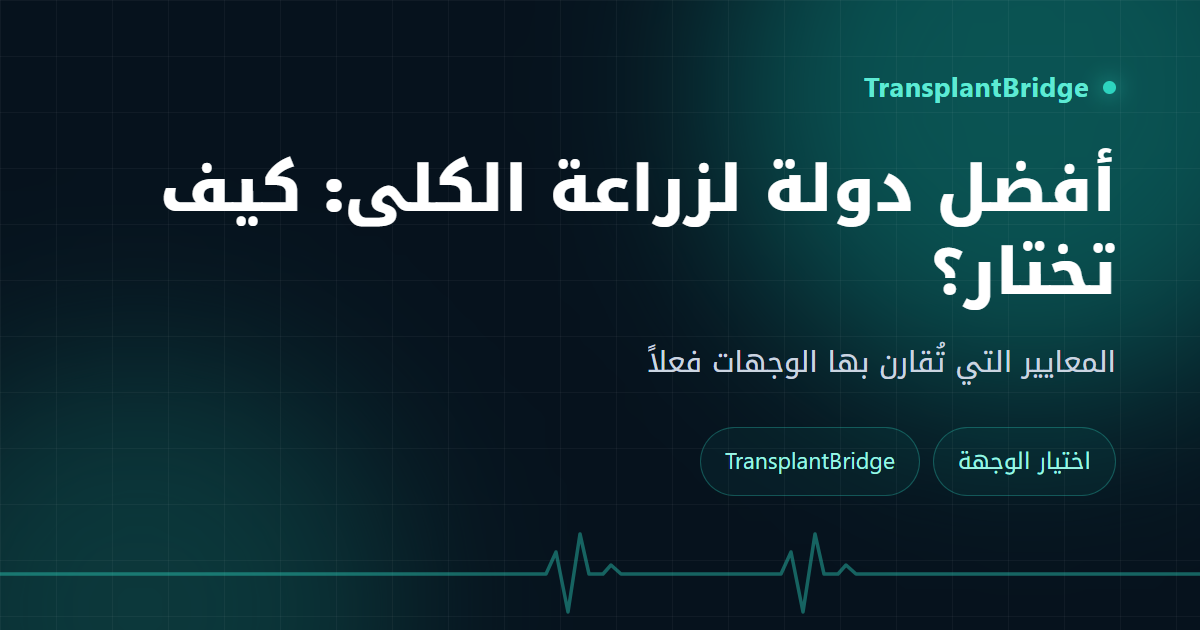
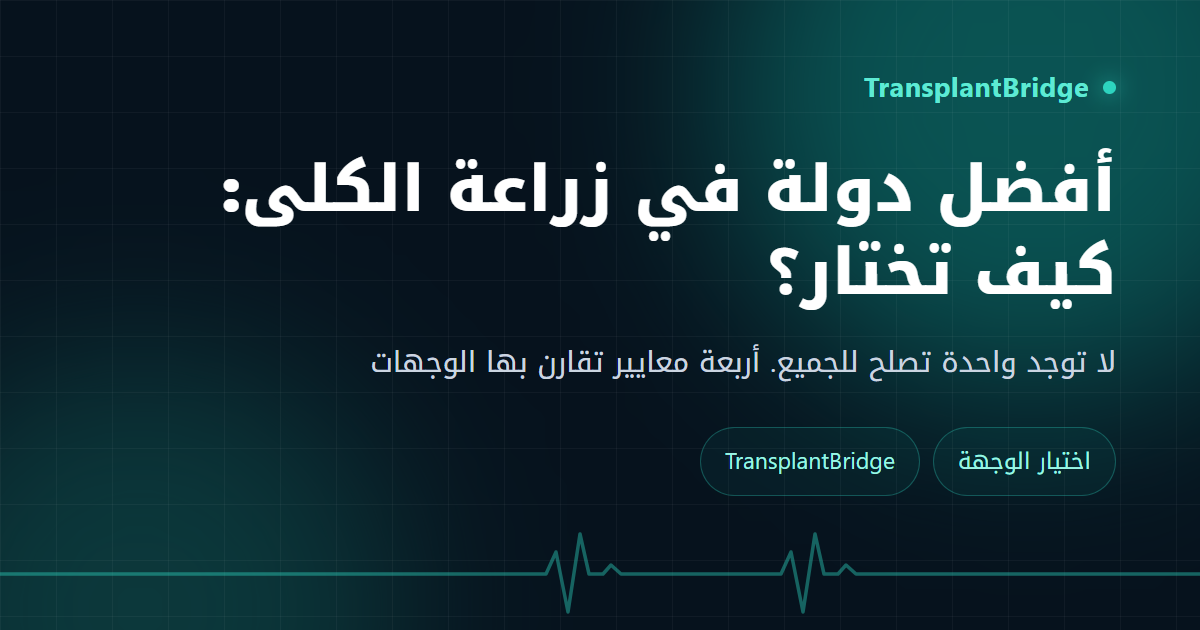
تقوية الصفحات الاربع الواقفة عند 8-9 — بلا اطالة محتوى
الاختيار مبني على قياس: وسيط كلمات صفحاتنا في المراكز 1-10 هو 1001،
وفي المراكز 20+ هو 718 — لكن اطول صفحة (2744 كلمة) في الموضع 21 واقصرها
(685) في الموضع 8.8. فالطول ليس الرافعة هنا، بل التطابق وCTR والربط.

١) عدم تطابق حقيقي بين العنوان وH1 — وهو ما يدفع Google لاعادة كتابة العنوان:
   - best-country: العنوان «أفضل دولة في زراعة الكلى» (الاستعلام الفائز،
     25 ظهورا بموضع 8.84) بينما H1 كان «لـزراعة». صار متطابقا.
   - transplant-cost: H1 كان «تكلفة الزراعة: كيف تقرأ عرض السعر؟» بلا
     الكلمة المستهدفة اصلا. صار يحملها كاملة.

٢) اربعة اوصاف اعيدت كتابتها لتقود بالتمييز لا بقائمة مواضيع — عند
   الموضع 8-9 تتحرك الصفحة بـCTR لا بالمحتوى.

٣) سبعة روابط متن بمراسٍ وصفية متنوعة (لا «التكلفة» المتكررة في القوائم):
   transplant-elderly من 3 الى 5 روابط متن، و best-country الى 6،
   و transplant-cost الى 7، و kidney-donor-requirements الى 8.

٤) اعيد توليد 33 بطاقة مشاركة لتواكب العناوين الجديدة.

خطأ وقع واُصلح: مُدرِج الروابط افترض ان «],» في سطر مستقل، فاسقط فاصلة
في مصفوفة من سطر واحد وكسر البناء. اُصلح وتحقق.

Changed region(s): [[0.1233, 0.2413, 0.6167, 0.3921], [0.3083, 0.5429, 0.925, 0.6032], [0.6167, 0.3619, 0.925, 0.5127]]

diff --git a/src/content/kidney.ts b/src/content/kidney.ts
@@ -43,6 +43,7 @@ export const KIDNEY: ContentPage[] = [
         body: [
           "المعيار ليس الكلى وحدها، بل قدرة الجسم على احتمال جراحة وعلاج مناعي طويل. ويشمل التقييم:",
                   "<strong>والعمر وحده نادراً ما يكون مانعاً مطلقاً</strong> في المراكز الحديثة؛ ما يُقيَّم هو حالة القلب والرئة والأوعية — التفصيل في <a href=\"/transplant-elderly\">الزراعة لكبار السن</a>.",
+                  "ومن تجاوز الستين يسأل دائماً: هل العمر يمنع؟ الجواب في <a href=\"/transplant-elderly\">زراعة الكبد والكلى لكبار السن</a> — والمعوَّل عليه العمر البيولوجي لا رقم الميلاد.",
         ],
         list: [
           "تقييم القلب والأوعية — أكثر ما يُدقَّق فيه عند مرضى الفشل الكلوي.",
@@ -135,7 +136,9 @@ export const KIDNEY: ContentPage[] = [
       },
       {
         h2: "التحضير للعملية",
-        body: ["بعد اكتمال التقييم والموافقة تبدأ مرحلة التحضير، وهي أوسع مما يتوقع المرضى:"],
+        body: ["بعد اكتمال التقييم والموافقة تبدأ مرحلة التحضير، وهي أوسع مما يتوقع المرضى:",
+          "ولا تقارن عرضين بالسعر الإجمالي وحده — اقرأ <a href=\"/transplant-cost\">تكلفة زراعة الكلى والكبد في تركيا</a> لتعرف ما يجب أن يوضحه كل عرض قبل أن تقارن.",
+        ],
         list: [
           "<strong>ضبط ضغط الدم والسكر</strong> قبل الجراحة — عاملان حاسمان في نتائج زراعة الكلى.",
           "<strong>تقييم قلبي نهائي</strong> وموافقة طبيب القلب والتخدير.",
@@ -183,6 +186,7 @@ export const KIDNEY: ContentPage[] = [
         h2: "الزراعة أم الغسيل؟",
         body: [
           "لكل منهما موضعه، والمفاضلة ليست مطلقة بل بحسب حالة كل مريض. لكن من المهم أن تعرف أن الزراعة ليست «الحل الأسهل» بل علاج له التزاماته الدائمة.",
+                  "وإن كان المريض كبير السن فالموازنة تختلف قليلاً — انظر <a href=\"/transplant-elderly\">زراعة الكبد والكلى لكبار السن</a>.",
         ],
         table: {
           head: ["", "الغسيل الكلوي", "زراعة الكلى"],
@@ -326,7 +330,7 @@ export const KIDNEY: ContentPage[] = [
     volume: "100 – 1,000",
     title: "شروط التبرع بالكلى 2026: القرابة والتوافق",
     description:
-      "شروط التبرع بالكلى: درجات القرابة المطلوبة قانوناً، وفصيلة الدم والتوافق النسيجي، وشروط الصحة والعمر، والموانع التي تستبعد المتبرع.",
+      "شروط التبرع بالكلى: درجة القرابة بنصّ اللائحة التركية، وفصيلة الدم والتوافق النسيجي، والموانع التي تستبعد متبرعاً سليماً تماماً.",
     h1: "شروط التبرع بالكلى",
     lead:
       "شروط التبرع بالكلى ثلاثة معاً: شرط قانوني يخص صلة القرابة، وشرط طبي يخص التوافق وصحة المتبرع، وشرط يخص حرية القرار. واجتياز واحد لا يكفي — يجب اجتيازها كلها.",
@@ -348,6 +352,7 @@ export const KIDNEY: ContentPage[] = [
         body: [
           "أول سؤال يُطرح، وهو الذي يحدد إن كان المسار ممكناً أصلاً. القوانين عادةً تحصر التبرع من الأحياء في دائرة قرابة محددة، وما خرج عنها يُحال إلى لجنة أخلاقيات مختصة تنظر في الملف وتقرر.",
           "وينضاف إلى ذلك أن <strong>المريض القادم من خارج البلد لا يُدرج عادةً على قائمة المتبرعين المتوفين</strong> هناك، لأنها مخصصة لمواطني الدولة — فيبقى المتبرع الحي القريب هو الطريق العملي.",
+                  "ومن يوازن بين أكثر من وجهة قبل أن يقرر، فمعايير المقارنة في <a href=\"/best-country-kidney-transplant\">أفضل دولة في زراعة الكلى</a> — وأولها القانون لا السعر.",
         ],
         note:
           "أما <strong>تركيا تحديداً فرجعنا فيها إلى النص الرسمي</strong>، ودرجات القرابة وما يتعلق بالمريض الأجنبي مذكورة بموادها في القسم التالي. وما عدا تركيا تختلف المتطلبات بين الدول وتتغيّر، فالمرجع هو المستشفى والجهة القانونية المختصة في بلد العملية.",

diff --git a/src/content/decision.ts b/src/content/decision.ts
@@ -12,8 +12,8 @@ export const DECISION: ContentPage[] = [
     volume: "100 – 1,000",
     title: "أفضل دولة في زراعة الكلى: معايير الاختيار 2026",
     description:
-      "أفضل دولة في زراعة الكلى: المعايير التي تُقارن بها الوجهات فعلاً — القانون وتوفر المتبرع وخبرة المراكز والمتابعة — بدل الاعتماد على الترتيب.",
-    h1: "أفضل دولة لزراعة الكلى: كيف تختار؟",
+      "أفضل دولة في زراعة الكلى: لا توجد واحدة تصلح للجميع. أربعة معايير تقارن بها الوجهات — القانون والمتبرع وخبرة المركز والمتابعة.",
+    h1: "أفضل دولة في زراعة الكلى: كيف تختار؟",
     lead:
       "لا توجد «أفضل دولة» واحدة تصلح لكل مريض — توجد دولة أنسب لحالتك أنت. والعامل الحاسم في الغالب ليس السعر ولا السمعة، بل <strong>هل يسمح قانون تلك الدولة بأن يتبرع لك قريبك، وهل تستطيع إدخال متبرعك معك؟</strong>",
     cluster: "decision",
@@ -325,6 +325,7 @@ export const DECISION: ContentPage[] = [
           "لأن أسباباً عملية تجتمع هناك: قرب جغرافي يجعل السفر ممكناً في ساعات لا أياماً، وعدد كبير من المراكز التي تستقبل مرضى من الخارج بإجراءات معتادة لا استثنائية، وتوفّر منسّقين يتحدثون العربية في كثير من المستشفيات، وبنية طبية تسمح بزراعة من متبرع حي بوصفها مساراً روتينياً.",
           "لكن <strong>هذه الأسباب لا تعني أن تركيا هي الأفضل لحالتك</strong>، ولا أن كل مركز فيها مناسب. فالقرب وسهولة الإجراءات مزيّتان لوجستيتان لا طبيّتان، ومستوى المراكز هناك متفاوت كتفاوته في أي بلد آخر.",
           "والطريقة الصحيحة في التفكير: ابدأ من <strong>شرط المتبرع القريب</strong> لأنه يحسم جدوى المسار كله، ثم من خبرة المركز في عضوك تحديداً، ثم من وضوح العرض المالي، ثم من اللغة والتنسيق. ومعايير الاختيار كاملةً في صفحة <a href=\"/best-country-kidney-transplant\">أفضل دولة للزراعة</a>.",
+                  "ولمن يقارن تركيا بغيرها قبل أن يحسم: معايير المفاضلة كاملةً في <a href=\"/best-country-kidney-transplant\">أفضل دولة في زراعة الكلى</a>.",
         ],
         list: [
           "قرب يقلّل عبء السفر على مريض كبدي ضعيف — وهذا اعتبار طبي حقيقي لا رفاهية.",
@@ -625,8 +626,8 @@ export const DECISION: ContentPage[] = [
     volume: "10 – 100",
     title: "تكلفة زراعة الكلى والكبد في تركيا 2026",
     description:
-      "تكلفة زراعة الكلى والكبد: لماذا تتناقض الأرقام المنشورة، وما البنود التي يجب أن يشملها أي عرض، وما الذي يُستثنى عادةً فيفاجئك لاحقاً.",
-    h1: "تكلفة الزراعة: كيف تقرأ عرض السعر؟",
+      "تكلفة زراعة الكلى والكبد في تركيا: لماذا تتناقض الأرقام، والنطاقات المنقولة بمصادرها، والبنود التي يُفاجئك استثناؤها من العرض.",
+    h1: "تكلفة زراعة الكلى والكبد في تركيا: كيف تقرأ العرض؟",
     lead:
       "لن تجد في هذه الصفحة رقماً — وهذا قرار مقصود. الأرقام المنشورة عن تكلفة الزراعة متناقضة بشدة، وكل رقم يقيس شيئاً مختلفاً. ما نعطيك إياه هو أداة تحوّل أي عرض يصلك إلى رقم تفهمه وتستطيع مقارنته.",
     cluster: "decision",

diff --git a/src/content/extra.ts b/src/content/extra.ts
@@ -489,7 +489,7 @@ export const EXTRA: ContentPage[] = [
     volume: "100 – 1,000",
     title: "زراعة الكبد والكلى لكبار السن: هل العمر مانع؟",
     description:
-      "زراعة الكبد والكلى لكبار السن: هل العمر وحده يمنع الزراعة، وما الذي يقيّمه الفريق الطبي فعلاً، والفرق بين العمر الزمني والعمر البيولوجي.",
+      "زراعة الكبد والكلى لكبار السن: العمر وحده نادراً ما يمنع. ما يقيّمه الفريق فعلاً هو القلب والرئة والأمراض المصاحبة — لا رقم الميلاد.",
     h1: "زراعة الكبد والكلى لكبار السن",
     lead:
       "العمر وحده نادراً ما يكون مانعاً مطلقاً للزراعة في المراكز الحديثة. ما يقيّمه الفريق فعلاً هو <strong>العمر البيولوجي</strong>: حالة القلب والأوعية والرئتين، والأمراض المصاحبة، والقدرة على احتمال الجراحة والعلاج المناعي — لا رقم الميلاد.",
@@ -627,6 +627,7 @@ export const EXTRA: ContentPage[] = [
         body: [
           "يسأل كثيرون: <strong>هل يمكن زراعة الكلى قبل الغسيل</strong>؟ والجواب نعم في بعض الحالات، وتُسمى الزراعة الاستباقية.",
           "وتُطرح حين تقترب وظيفة الكلى من المرحلة النهائية ويتوفر متبرع مؤهَّل ويكتمل التقييم في الوقت المناسب — فتُجرى الزراعة قبل البدء بالغسيل أصلاً.",
+                  "وكل ذلك متوقف على وجود متبرع مؤهَّل — و<a href=\"/kidney-donor-requirements\">شروط التبرع بالكلى</a> هي ما يحسم ذلك قبل أي خطوة.",
         ],
         note:
           "شرطها العملي أن يبدأ التقييم <strong>مبكراً</strong>، لأن تجهيز المريض والمتبرع يستغرق وقتاً. فإن أخبرك طبيبك أن كليتك تقترب من المرحلة النهائية، فابدأ السؤال عن الزراعة من ذلك اليوم لا بعد أول جلسة غسيل.",
@@ -651,6 +652,7 @@ export const EXTRA: ContentPage[] = [
         body: [
           "العودة إلى الغسيل خيار قائم، وقد تُطرح زراعة ثانية بحسب الحالة. ولهذا فإن <strong>الغسيل ليس «الخيار الفاشل»</strong> بل شبكة أمان تبقى موجودة.",
           "التفصيل في <a href=\"/repeat-kidney-transplant\">زراعة الكلى للمرة الثانية</a>.",
+                  "وإن كان المريض متقدّماً في السن فالقرار يُوزن بمعايير إضافية — في <a href=\"/transplant-elderly\">زراعة الكبد والكلى لكبار السن</a>.",
         ],
       },
       {
